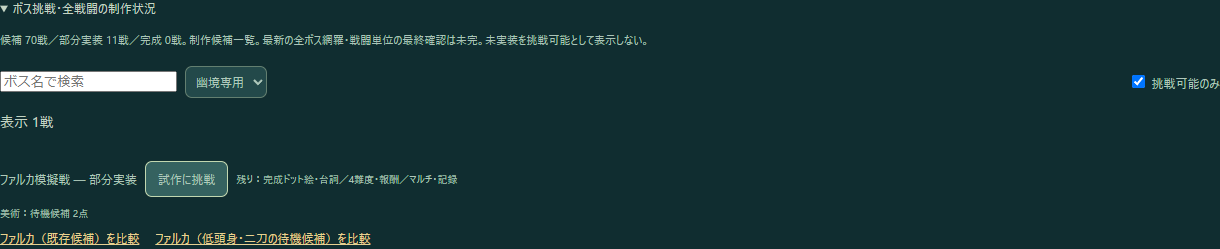
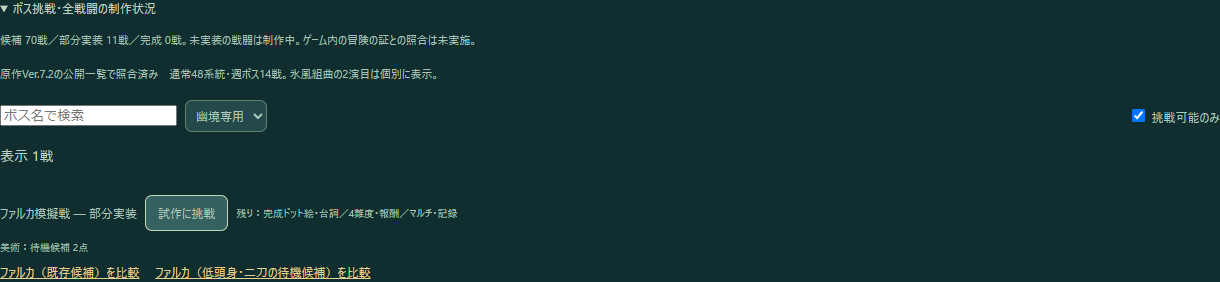
Check the field and weekly roster against published 7.2 lists

diff --git a/encounters-ui.js b/encounters-ui.js
@@ -8,6 +8,12 @@ async function initEncounters(){
   const response=await fetch('content/encounters.json');if(!response.ok)throw Error(response.status);
   const data=await response.json(),note=document.createElement('p');note.className='note';
   note.textContent=`候補 ${data.counts.encounter_candidates}戦／部分実装 ${data.counts.partial}戦／完成 ${data.counts.complete}戦。${data.warning}`;panel.append(note);
+  if(data.roster_review){
+   const review=data.roster_review,scope=document.createElement('p');scope.className='note';
+   scope.textContent=`原作Ver.${review.game_version}の公開一覧で照合済み　通常${review.field_boss_families}系統・週ボス${review.weekly_challenges}戦。氷風組曲の2演目は個別に表示。`;
+   if(review.unmatched_rows.length)scope.textContent+=` 未照合の登録 ${review.unmatched_rows.length}件。`;
+   panel.append(scope);
+  }
   const galleries=Object.entries(encounterArtGalleries);
   const results=await Promise.allSettled(galleries.map(async ([,gallery])=>{
    const response=await fetch(gallery.catalog);if(!response.ok)throw Error(response.status);
@@ -31,7 +37,9 @@ async function initEncounters(){
   }
   window.addEventListener('lab-ready',updateReadiness);
   function render(){
-   const rows=data.encounters.filter(r=>(kind.value==='all'||r.kind===kind.value)&&(!playable.checked||r.action)&&r.name.includes(search.value.trim()));
+   const query=search.value.trim().normalize('NFKC');
+   const rows=data.encounters.filter(r=>(kind.value==='all'||r.kind===kind.value)&&(!playable.checked||r.action)
+    &&[r.name,...(r.aliases??[])].some(name=>name.normalize('NFKC').includes(query)));
    count.textContent=`表示 ${rows.length}戦`;list.replaceChildren();
    for(const r of rows){
     const row=document.createElement('div');row.className='controls';row.dataset.encounter=r.id;

diff --git a/build_encounters.py b/build_encounters.py
@@ -7,7 +7,7 @@ from tempfile import TemporaryDirectory
 ROOT = Path(__file__).resolve().parent
 ART_LISTS = ('art_components', 'art_variants')
 ART_KEYS = {'art_candidate', *ART_LISTS}
-DETAIL_KEYS = {'action', 'variants', 'variantLabel', 'grouping', 'remaining', 'review_note', 'extra_evidence', *ART_KEYS}
+DETAIL_KEYS = {'name', 'aliases', 'action', 'variants', 'variantLabel', 'grouping', 'remaining', 'review_note', 'extra_evidence', *ART_KEYS}
 
 
 def read_json(path):
@@ -58,10 +58,41 @@ def resolve_art(ref, galleries):
     return {**result, **{k: v for k, v in ref.items() if k not in ('gallery', 'item')}}
 
 
+def apply_roster_review(rows, review):
+    totals = {}
+    unmatched = []
+    for kind in ('normal', 'weekly'):
+        by_id = {row['id']: row for row in rows if row['kind'] == kind}
+        matched = set()
+        names = set()
+        for entry in review[kind]:
+            name = entry['name']
+            if not name or name in names or not entry['rows']:
+                raise ValueError(f'{kind}: missing or duplicate roster name {name!r}')
+            names.add(name)
+            for row_id in entry['rows']:
+                if row_id not in by_id or row_id in matched:
+                    raise ValueError(f'{kind}: invalid or duplicate roster mapping for {row_id}')
+                matched.add(row_id)
+                row = by_id[row_id]
+                if name not in row['name'] and name not in row.get('aliases', []):
+                    row['aliases'] = [*row.get('aliases', []), name]
+        totals[kind] = len(names)
+        unmatched.extend(sorted(by_id.keys() - matched))
+    return {
+        'game_version': review['game_version'],
+        'reviewed_on': review['reviewed_on'],
+        'field_boss_families': totals['normal'],
+        'weekly_challenges': totals['weekly'],
+        'unmatched_rows': unmatched,
+    }
+
+
 def build():
     source = read_json('content/boss-catalog.json')
     original = read_json('content/stygian-encounters.json')
     details = read_json('content/encounter-details.json')['entries']
+    review = read_json('content/encounter-roster-review.json')
     galleries = {
         gallery: {item['id']: item for item in read_json(path)['items']}
         for gallery, path in [('bosses', 'content/boss-art-gallery.json'),
@@ -104,9 +135,11 @@ def build():
                 raise ValueError(f'{row_id}: invalid art reference for {key}: {error}') from error
             row[key] = value
 
+    roster_review = apply_roster_review(rows, review)
     return {
         'version': 1, 'snapshot_commit': source['snapshot_commit'], 'complete_roster_verified': False,
-        'warning': '制作候補一覧。最新の全ボス網羅・戦闘単位の最終確認は未完。未実装を挑戦可能として表示しない。',
+        'warning': '未実装の戦闘は制作中。ゲーム内の冒険の証との照合は未実施。',
+        'roster_review': roster_review,
         'counts': {
             'source_entities': len(entities), 'encounter_candidates': len(rows),
             'partial': sum(row['status'] == 'partial' for row in rows), 'complete': 0,

diff --git a/test_encounters.py b/test_encounters.py
@@ -22,6 +22,14 @@ check('evidence on every row',all(r['evidence'] for r in rows))
 check('generated file matches builder',d==json.loads((ROOT/'content/encounters.json').read_text(encoding='utf8')))
 check('counts retained',d['counts']=={'source_entities':63,'encounter_candidates':70,'partial':11,'complete':0})
 by_id={r['id']:r for r in rows}
+check('public roster matched without merging Icewind modes or Dottore challenges',d['roster_review']=={
+ 'game_version':'7.2','reviewed_on':'2026-11-17','field_boss_families':48,'weekly_challenges':14,'unmatched_rows':[],
+} and len([r for r in rows if r['kind']=='normal'])==49)
+check('both Dottore domains keep separate candidate IDs and aliases',
+      by_id['boss-29130201']['name']=='「博士」（偽月の異端者）'
+      and by_id['boss-29150101']['name']=='ドットーレ（左道の真諦者）'
+      and 'ドットーレ' in by_id['boss-29130201']['aliases']
+      and '博士' in by_id['boss-29150101']['aliases'])
 check('both paired encounters retain two art references',all(len(by_id[id]['art_components'])==2 for id in ('bathysmal-herd','boss-29122000')))
 check('every candidate has a gallery reference',all(r.get('art_candidate') or r.get('art_components') for r in rows))
 check('Capitano art and design linked without a playable action',
@@ -50,6 +58,17 @@ def read_previous_beidou_art(path):
 with patch.object(build_encounters,'read_json',side_effect=read_previous_beidou_art):
  revision=next(r for r in build()['encounters'] if r['id']=='stygian-beidou')
  check('gallery revision automatically updates reference',revision['art_candidate']['encoding']=='assets/beidou-idle-sprites.json' and revision['action'] is None)
+
+review=read_json('content/encounter-roster-review.json')
+unreviewed=d['encounters']+[{'id':'new-boss','kind':'normal'}]
+check('new unreviewed row is reported',build_encounters.apply_roster_review(unreviewed,review)['unmatched_rows']==['new-boss'])
+review['normal'].append({'name':'重複','rows':['boss-26020101']})
+try:
+ build_encounters.apply_roster_review(unreviewed,review)
+except ValueError as error:
+ check('overlapping entries rejected','duplicate roster mapping' in str(error))
+else:
+ raise AssertionError('accepted overlapping roster entries')
 
 lua,c=runtime()
 launches=[]

diff --git a/DESIGN_BOSS_ROSTER_REVIEW_20261117.md b/DESIGN_BOSS_ROSTER_REVIEW_20261117.md
@@ -3,6 +3,12 @@
 状態: **制作・演出設計のための調査メモ。実装済み・全件正式採用・Ver7.2完全網羅を宣言しない**。
 ユーザー方針: 一般モブは1種類程度の基本攻撃＋接触ダメージ、被ダメージの大演出不要。地方伝説、フィールドボス、週ボス、幽境を重点的にデザインする。モブの正確な攻撃数・例外は未確定。
 
+## Ver.7.2の公開一覧との照合（2026-11-17追補）
+
+[ボス別の照合表](content/encounter-roster-review.json)に、公開一覧の名前とラボの登録IDを対応付けた。フィールドは48系統・49行、週ボスは14戦・14行が対応。氷風組曲の2演目は個別に表示し、アビサルヴィシャップの群れと扉に通ずる対局はそれぞれ複数体を含む1戦として数えた。既存の本作独自幽境7件を足して合計70行。参照した公開一覧に対する未登録・重複は0件。 [フィールドと週ボス一覧](https://game8.jp/genshin/353647)・[週ボス一覧の照合先](https://gamewith.jp/genshin/article/show/421523)・[氷風組曲の公式告知](https://genshin.hoyoverse.com/en/news/detail/112690)。
+
+「博士」（偽月の異端者）はナド・クライ「煙雲の山」、左道の真諦者はスメール「万有涅槃縛境」の枠として区別。公式のVer.7.2告知はロノヴァを魔神任務の戦闘として扱っており、今回確認した週ボスの公開一覧には掲載されていない。ラボでは本作独自幽境の候補に掲載している。ゲーム内「冒険の証」との照合、地方伝説・期間限定戦の網羅、ラボの戦闘完成は引き続き別途確認が必要。 [偽月の異端者の公式告知](https://genshin.hoyoverse.com/ja/news/detail/162159)・[左道の真諦者の挑戦場所](https://gamewith.jp/genshin/article/show/560976)・[Ver.7.2公式告知](https://genshin.hoyoverse.com/ja/news/detail/167187)。
+
 ## 1. 既存GitHub制作候補
 
 元資料: [content/encounters.json](content/encounters.json)、取得blob `6c3db238604d786c49dedcb4c2c317982317ee6b`。原本の数値: 敵エンティティ63件、戦闘候補66件（通常49、週14、幽境オリジナル3）、部分試作11、完成0。最終的な全ボス網羅検証は未完。元データにない地方伝説は合計66戦に**含まれていない**。
